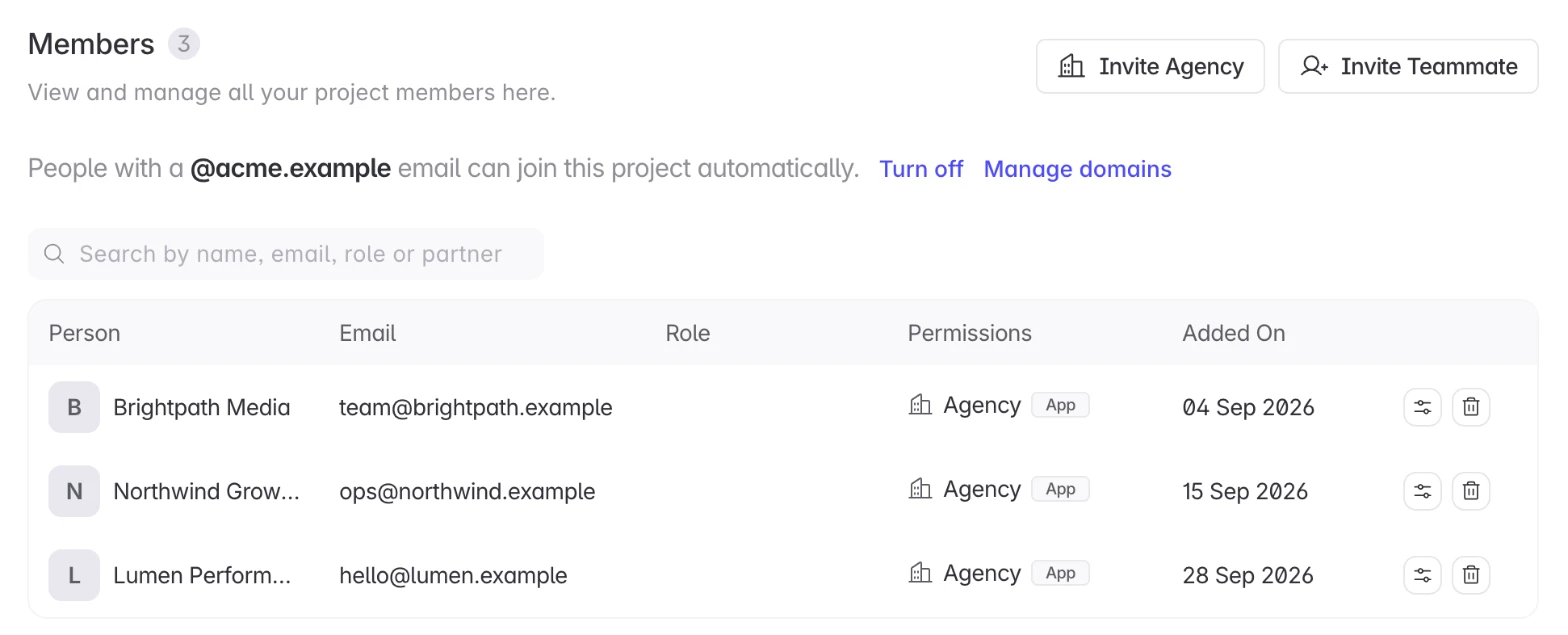
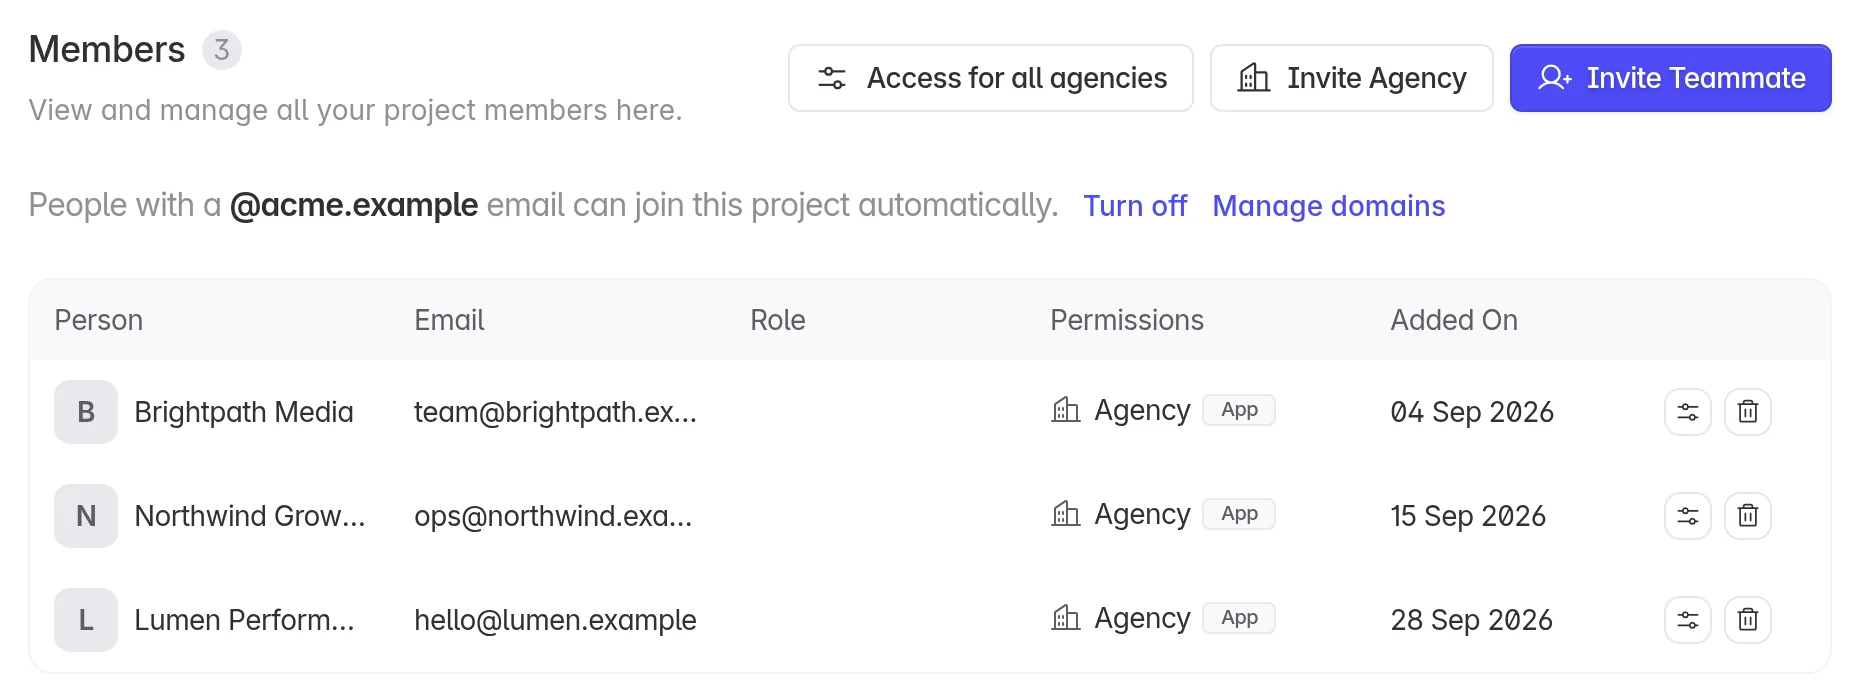
docs(agency-partners): user lists switches, sign-ups off for new agencies, change one switch for all (LIN-5409, LIN-5410)
- a new agency starts with every switch off, sign-ups included; earlier
  agencies keep theirs.
- new section: change one switch for all agencies from Settings > Members,
  with the preview and what gets skipped.
- user lists and include device ids rows (app), user lists (web), and the
  rule for user lists and user files; the old sign-ups + export data line goes.
- the access panel and members screenshots match the current ui; the edit
  steps get edit-on images.

diff --git a/agency-partners/control-agency-access.md b/agency-partners/control-agency-access.md
@@ -7,9 +7,9 @@ description: "Choose which screens, actions, and data an agency can reach inside
 
 <p class="vp-lead">Choose which screens, actions, and data an agency can reach inside your project</p>
 
-An engaged agency starts with every switch off except **Sign-ups**, which starts on. You decide, per agency, which screens they open, which actions they take, and how much of your project they measure. App campaigns and Web campaigns are set separately, so an agency can run your app installs without seeing your website, or the other way round.
+A new agency starts with every switch off, **Sign-ups** included. You decide, per agency, which screens they open, which actions they take, and how much of your project they measure. App campaigns and Web campaigns are set separately, so an agency can run your app installs without seeing your website, or the other way round.
 
-The panel comes to you when you connect an agency, and the sliders icon on their row in **Settings → Members** opens it again whenever you want to change your mind.
+The panel comes to you when you connect an agency, and the sliders icon on their row in **Settings → Members** opens it again whenever you want to change your mind. To change one switch for every agency at once, see [Change one switch for all agencies](#change-one-switch-for-all-agencies).
 
 <Info>
 
@@ -29,7 +29,7 @@ The panel also opens by itself the moment you connect an agency from **Integrati
 
 ## 2. Choose their screens and actions
 
-The top of the panel is **Manage integrations**, then a switch between **App campaigns** and **Web campaigns**. Each tab has its own switches and its own data scope. A new engagement has every switch off except **Sign-ups**, which starts on and only shows once **Read** is on for that tab. Agencies you engaged before **Sign-ups** existed have it on too, so nothing changes for them until you turn it off.
+The top of the panel is **Manage integrations**, then a switch between **App campaigns** and **Web campaigns**. Each tab has its own switches and its own data scope. A new engagement has every switch off, **Sign-ups** included. Agencies you engaged earlier keep the switches they already have, so nothing changes for them until you change it.
 
 | Tab               | When you see it                                     |
 | ----------------- | --------------------------------------------------- |
@@ -54,8 +54,10 @@ It does not need **Read** on either side.
 | **App campaigns · Edit**   | Creating and changing App campaigns. Turning **Edit** on turns **Read** on.                                                        |
 | **Overview**               | The summary strip above the campaigns.                                                                                             |
 | **Channels**               | The channel breakdown tab.                                                                                                         |
-| **Export data**            | Downloading campaign data as a file.                                                                                               |
-| **Sign-ups**               | Sign-ups, Conversion and Cost per sign-up in the campaigns table and drawer, the Overview sign-up tiles, and sign-up figures in Channels. Needs **Read**. Off hides them, and also stops the agency exporting the list of users who signed up through a campaign (that export also needs **Export data**). |
+| **Export data**            | Downloading campaign data as a file. With **User lists** on, user files too.                                                       |
+| **User lists**             | The **Users** tab, and the user rows in a campaign's drawer, for people who signed up through their campaigns. Needs **Read** and **Sign-ups**. |
+| **Include device IDs**     | GAID and IDFA in the user files they download from a drawer. Greyed out until **User lists** is on, and turning **User lists** off turns it off. |
+| **Sign-ups**               | Sign-ups, Conversion and Cost per sign-up in the campaigns table and drawer, the Overview sign-up tiles, and sign-up figures in Channels. Needs **Read**. Off hides them, and the user lists too, since they need **Sign-ups** on. |
 | **Revenue & spend**        | The Revenue tile in Overview, plus the Revenue, Spend, ROAS, Cost per install, and Cost per signup columns in the campaigns table. |
 
 ### Web campaigns
@@ -66,8 +68,9 @@ It does not need **Read** on either side.
 | -------------------------- | -------------------------------------------------------------------------------------- |
 | **Web campaigns · Read**   | The Web campaigns table. Everything below depends on this.                              |
 | **Web campaigns · Edit**   | Creating and changing Web campaigns. Turning **Edit** on turns **Read** on.            |
-| **Export data**            | Downloading the Web campaigns table as a file. User lists stay with your team.         |
-| **Sign-ups**               | Sign-ups, unique users and Conversion for their Web campaigns. Needs **Read**. Off hides sign-up events from their web campaigns, drawer and exports. |
+| **Export data**            | Downloading the Web campaigns table as a file. With **User lists** on, user files too. |
+| **User lists**             | The **Users** tab for web users whose first visit came through their Web campaigns. Needs **Read** and **Sign-ups**. |
+| **Sign-ups**               | Sign-ups, unique users and Conversion for their Web campaigns. Needs **Read**. Off hides sign-up events from their web campaigns, drawer and exports, and the user list too, since it needs **Sign-ups** on. |
 | **Revenue & spend**        | The Revenue, Spend, and ROAS columns for their Web campaigns.                          |
 
 **Sign-ups does not turn Read on.** It only takes effect once **Read** is on for that tab. Postbacks don't change when you turn it off.
@@ -81,6 +84,23 @@ It does not need **Read** on either side.
 </Note>
 
 **Read governs the rest of its tab.** With **App campaigns · Read** off, every App switch below it is disabled, and the same goes for **Web campaigns · Read** on the Web tab. Turning one side on does not turn on the other.
+
+### User lists and user files
+
+**User lists** gives the agency a **Users** tab in its sidebar. It lists your users who came through campaigns the agency can see, so **Only campaigns they built** and **Only certain networks** limit it too. App users are the people who signed up through those campaigns. Web users are the people whose first visit came through them. Each row shows the user's details, such as ID, name, email and phone. The agency can filter by date and, on the App side, by campaign. It has no search, no channel column, no user detail page and no cohorts.
+
+A side's list shows only when **Read**, **User lists** and that side's **Sign-ups** are all on. Turning **Sign-ups** off keeps **User lists** on, but the list stops showing.
+
+**User files** are the **Export** button on the **Users** tab and, on the App side, the download menu in a campaign, ad set or creative drawer (**All Onboarded Users** and **Paying Users**). They need **Export data** on the same side as well. **Export data** alone only downloads the campaigns table.
+
+- **Include device IDs** adds GAID and IDFA to the files from a drawer. Without it they are left out.
+- **Paying Users**, and the revenue columns in the other drawer files, need **Revenue & spend**.
+
+<Note>
+
+User lists and user files include your users' names, emails and phone numbers, so turn them on only for agencies you trust with that.
+
+</Note>
 
 ## 3. Choose how much data
 
@@ -106,6 +126,30 @@ Click **Save**. Both tabs are saved together. The change applies straight away, 
 
 Nothing is hidden silently. A screen you have not granted tells the agency that the customer has not given them access to it, so they know to ask you. The same holds for a campaign outside the scope you set and for a network you did not tick.
 
+## Change one switch for all agencies
+
+To set the same switch for every agency at once, open **Settings → Members** and click **Access for all agencies**, next to **Invite Agency**. Only project admins see it, and only once your project has at least one agency.
+
+1. Open the list that says **Choose a switch** and pick one. When your project has App and Web campaigns, the list is grouped under **App** and **Web**. **Include device IDs**, **Manage integrations** and **Attribution windows** are not in it, because you set those for each agency on its own.
+2. Choose **On** or **Off**. **Off** is selected to start with.
+3. Read the preview. Nothing is saved yet. It lists the agencies that gain or lose the switch, then the ones that are **Skipped**, each with its reason. An agency that is still being invited, is suspended, or that you disconnected carries a tag: **Invited**, **Suspended**, or **Disconnected**.
+4. Click the button at the bottom, which names what it will do, such as **Turn Sign-ups off for 5 agencies**. While nothing would change it reads **Apply** and stays greyed out.
+
+When it saves, the dialog closes and a message says how many agencies changed and how many were left as they are. Agencies see the change on their next page load. To change one agency, use the sliders icon on its row.
+
+What the preview tells you:
+
+- **On never turns another switch on.** An agency that needs one first is skipped, and the reason names it, such as "Needs Campaigns on first." **Campaigns** is this list's name for App **Read**, and **Web campaigns** is its name for Web **Read**. A note also says when the switch will not show yet, such as "Needs Sign-ups on to show." for **User lists**.
+- **Off also turns off the switches that depend on it.** The note under an agency names them, such as "Also turns off Overview and Channels." Turning **Sign-ups** off leaves **User lists** on, and the note says the user lists stop too.
+- **On reaches connected agencies only.** Agencies you disconnected are skipped.
+- **Off reaches disconnected agencies too.** The switch stays off if you reconnect them, and the note says so.
+
+<Warning>
+
+Turning a switch off takes effect right away. Tell the agencies first if they rely on it.
+
+</Warning>
+
 ## Troubleshooting
 
 **The sliders icon is missing from the agency's row.**
@@ -116,6 +160,21 @@ Web campaigns are not turned on for your project. The panel only shows the sides
 
 **The agency still cannot see a screen you turned on.**
 Ask them to refresh. If it persists, check that **Read** is on for the tab that screen belongs to. App and Web each have their own.
+
+**The Access for all agencies button is missing.**
+You need to be an admin on the project, and the project needs at least one agency.
+
+**An agency is listed under Skipped.**
+The reason names why. For **On**, the agency needs another switch first, or you disconnected it. Change that agency from the sliders icon on its row.
+
+**The agency has no Users tab.**
+Check **Read**, **User lists** and **Sign-ups** for that side. All three need to be on.
+
+**The agency has a Users tab but no Export button.**
+**Export data** is off for that side. The button is also greyed out while the list is empty.
+
+**A drawer file has no GAID or IDFA, or there is no Paying Users option.**
+Turn on **Include device IDs** for GAID and IDFA, and **Revenue & spend** for **Paying Users**.
 
 **The agency can see App campaigns but not Web campaigns.**
 **Web campaigns · Read** is off. Open the **Web campaigns** tab and turn it on.

diff --git a/agency-partners/invite-an-agency.md b/agency-partners/invite-an-agency.md
@@ -129,6 +129,6 @@ You are viewing the project as a partner rather than as an admin. Agencies are m
 That address already belongs to an agency, or already has a pending invitation for this project. The error message names the company involved.
 
 **The agency says they cannot see a screen.**
-They only get what you have granted them, and a new engagement starts with everything off except **Sign-ups**, which starts on. Open **Settings → Members**, click the sliders icon on their row, and turn on what they need. See [Control agency access](/agency-partners/control-agency-access).
+They only get what you have granted them, and a new engagement starts with everything off, **Sign-ups** included. Open **Settings → Members**, click the sliders icon on their row, and turn on what they need. See [Control agency access](/agency-partners/control-agency-access).
 
 **Need help?** Contact <support@linkrunner.io>

diff --git a/agency-partners/create-campaign-link.md b/agency-partners/create-campaign-link.md
@@ -45,7 +45,7 @@ They click the sliders icon on your row, next to the bin icon.
 
 On the **App campaigns** tab, they turn on **Edit** next to **App campaigns**. This also turns on **Read**. Then they click **Save**.
 
-![The agency access window on the App campaigns tab, with Read and Edit turned on](/images/agency-partners/agency-access-app-tab.webp)
+![The agency access window on the App campaigns tab, with Read and Edit turned on](/images/agency-partners/agency-access-app-tab-edit-on.webp)
 
 For Web campaigns, they turn on **Edit** on the **Web campaigns** tab instead. See [Create an Agency Web Campaign](/agency-partners/create-web-campaign).
 

diff --git a/agency-partners/create-web-campaign.md b/agency-partners/create-web-campaign.md
@@ -39,7 +39,7 @@ In their project, they go to **Settings → Members** and click the sliders icon
 
 On the **Web campaigns** tab, they turn on **Edit** next to **Web campaigns**. This also turns on **Read**. Then they click **Save**.
 
-![The agency access window on the Web campaigns tab, with Read and Edit turned on](/images/agency-partners/agency-access-web-tab.webp)
+![The agency access window on the Web campaigns tab, with Read and Edit turned on](/images/agency-partners/agency-access-web-tab-edit-on.webp)
 
 </Step>
 
